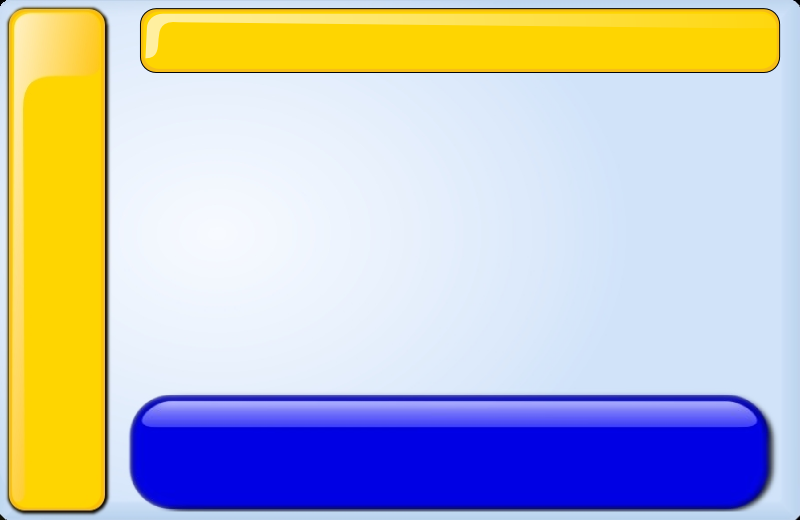
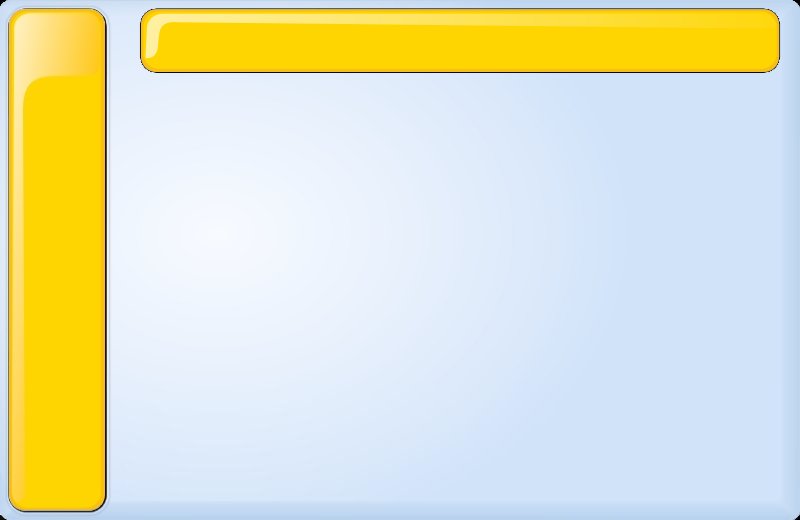
improved menu. now the description is no more hard drawed in the background but is displayed dynamically. It allows a better integration with the new control bar.
svn path=/branches/gcomprixogoo/; revision=3496

diff --git a/src/boards/menu2.c b/src/boards/menu2.c
@@ -30,7 +30,7 @@
 #define MENU_PER_LINE 5
 
 typedef struct {
-  /* Information items (_s are shadow) */
+  GooCanvasItem *bg; /* Background */
   GooCanvasItem *boardname_item;
   GooCanvasItem *description_item;
   GooCanvasItem *author_item;
@@ -111,7 +111,7 @@ static gdouble get_ratio(GdkPixbuf *pixmap, gdouble size);
 #define D_INT_Y 5
 
 #define I_X 140
-#define I_Y 410
+#define I_Y 390
 #define I_W 600
 #define I_H 125
 
@@ -215,6 +215,12 @@ static void menu_start (GcomprisBoard *agcomprisBoard)
 
       gcomprisBoard=agcomprisBoard;
 
+      /* set initial values for this level */
+      gcomprisBoard->level = 1;
+      gcomprisBoard->maxlevel=1;
+      gc_bar_set(GC_BAR_CONFIG|GC_BAR_ABOUT);
+      gc_bar_set_level(gcomprisBoard);
+
       menuitems = g_new(MenuItems, 1);
 
       img = gc_skin_image_get("gcompris-menu2bg.png");
@@ -237,14 +243,6 @@ static void menu_start (GcomprisBoard *agcomprisBoard)
 	display_section(menu_position);
       else
 	display_welcome(menuitems);
-
-      /* set initial values for this level */
-      gcomprisBoard->level = 1;
-      gcomprisBoard->maxlevel=1;
-      gc_bar_set(GC_BAR_CONFIG|GC_BAR_ABOUT);
-
-      /* FIXME : Workaround for bugged canvas */
-      //goo_canvas_update_now(gcomprisBoard->canvas);
 
       menu_pause(FALSE);
 
@@ -555,6 +553,10 @@ on_enter_notify (GooCanvasItem  *item,
 
   board = g_object_get_data (G_OBJECT (item), "board");
 
+  if(G_IS_OBJECT(menuitems->bg))
+    g_object_set(menuitems->bg,
+		 "visibility", GOO_CANVAS_ITEM_VISIBLE, NULL);
+
   if(board->title && G_IS_OBJECT(menuitems->boardname_item))
     g_object_set (menuitems->boardname_item,
 		  "text", board->title,
@@ -580,6 +582,9 @@ on_leave_notify (GooCanvasItem  *item,
 		 GdkEventCrossing *event,
 		 MenuItems *menuitems)
 {
+  g_object_set(menuitems->bg,
+	       "visibility", GOO_CANVAS_ITEM_INVISIBLE, NULL);
+
   g_object_set (menuitems->boardname_item,
 		"text", "", NULL);
 
@@ -642,11 +647,27 @@ create_info_area(GooCanvasItem *parent, MenuItems *menuitems)
 
   g_assert(parent);
 
-  menuitems->boardname_item = \
+  menuitems->bg =
+    goo_canvas_rect_new (parent,
+			 info_x,
+			 info_y,
+			 info_w,
+			 info_h,
+			 "stroke_color_rgba", 0xFFFFFFFFL,
+			 "fill_color_rgba", 0x0000FF90L,
+			 "line-width", (double) 2,
+			 "radius-x", (double) 10,
+			 "radius-y", (double) 10,
+			 NULL);
+
+  g_object_set(menuitems->bg,
+	       "visibility", GOO_CANVAS_ITEM_INVISIBLE, NULL);
+
+  menuitems->boardname_item =			\
     goo_canvas_text_new (parent,
 			 "",
 			 x,
-			 y,
+			 y + 20,
 			 -1,
 			 GTK_ANCHOR_CENTER,
 			 "font", gc_skin_font_board_big,
@@ -658,8 +679,8 @@ create_info_area(GooCanvasItem *parent, MenuItems *menuitems)
     goo_canvas_text_new (parent,
 			 "",
 			 x,
-			 y + 34,
-			 info_w,
+			 y + 54,
+			 info_w - 10,
 			 GTK_ANCHOR_CENTER,
 			 "font", gc_skin_font_board_medium,
 			 "fill-color-rgba", gc_skin_get_color("menu/text"),
@@ -670,14 +691,13 @@ create_info_area(GooCanvasItem *parent, MenuItems *menuitems)
     goo_canvas_text_new (parent,
 			 "",
 			 x,
-			 y + 90,
+			 y + 110,
 			 -1,
 			 GTK_ANCHOR_CENTER,
 			 "font", gc_skin_font_board_tiny,
 			 "fill-color-rgba", gc_skin_get_color("menu/text"),
 			 "alignment", PANGO_ALIGN_CENTER,
 			 NULL);
-
 }
 
 static gdouble
@@ -799,29 +819,15 @@ create_top(GooCanvasItem *parent, gchar *path)
 
 }
 
-static void
-display_welcome (MenuItems *menuitems)
+static gboolean
+display_welcome_event (GooCanvasItem  *item,
+		       GooCanvasItem  *target,
+		       GdkEventCrossing *event,
+		       MenuItems *menuitems)
 {
-  GdkPixbuf *pixmap;
-
-  if (actualSectionItem)
-    g_error("actualSectionItem exists in display_section !");
-
-
-  actualSectionItem = goo_canvas_group_new(boardRootItem,
-					   NULL);
-
-  pixmap = gc_skin_pixmap_load("gcompris-about.png");
-
-  goo_canvas_image_new (actualSectionItem,
-			pixmap,
-			display_x + display_w/2.0 -
-			gdk_pixbuf_get_width(pixmap)/2,
-			display_y + display_h/2.0 -
-			gdk_pixbuf_get_height(pixmap)/2,
-			NULL);
-
-  gdk_pixbuf_unref(pixmap);
+  if(G_IS_OBJECT(menuitems->bg))
+    g_object_set(menuitems->bg,
+		 "visibility", GOO_CANVAS_ITEM_VISIBLE, NULL);
 
   if(G_IS_OBJECT(menuitems->boardname_item))
     g_object_set(menuitems->boardname_item,
@@ -837,6 +843,39 @@ display_welcome (MenuItems *menuitems)
   if(G_IS_OBJECT(menuitems->author_item))
     g_object_set(menuitems->author_item,
 		 "text", "", NULL);
+
+  return FALSE;
+}
+
+static void
+display_welcome (MenuItems *menuitems)
+{
+  GdkPixbuf *pixmap;
+  GooCanvasItem *item;
+
+  if (actualSectionItem)
+    g_error("actualSectionItem exists in display_section !");
+
+
+  actualSectionItem = goo_canvas_group_new(boardRootItem,
+					   NULL);
+
+  pixmap = gc_skin_pixmap_load("gcompris-about.png");
+
+  item = goo_canvas_image_new (actualSectionItem,
+			       pixmap,
+			       display_x + display_w/2.0 -
+			       gdk_pixbuf_get_width(pixmap)/2,
+			       display_y + display_h/2.0 -
+			       gdk_pixbuf_get_height(pixmap)/2,
+			       NULL);
+
+  gdk_pixbuf_unref(pixmap);
+
+  g_signal_connect (item, "enter_notify_event",
+		    (GtkSignalFunc) display_welcome_event, menuitems);
+  g_signal_connect (item, "leave_notify_event",
+		    (GtkSignalFunc) on_leave_notify, menuitems);
 
   menu_displayed = TRUE;
 }

diff --git a/src/submarine-activity/submarine.c b/src/submarine-activity/submarine.c
@@ -127,7 +127,7 @@ static void game_won();
 /* ================================================================ */
 static GooCanvasItem *boardRootItem = NULL;
 
-static GooCanvasItem *sub_schema_image_item, *submarine_item,
+static GooCanvasItem *submarine_item,
   *ballast_av_purge_item, *ballast_ar_purge_item, *regleur_purge_item;
 static GooCanvasItem *ballast_av_chasse_item, *ballast_ar_chasse_item, *regleur_chasse_item;
 gboolean ballast_av_purge_open, ballast_ar_purge_open, regleur_purge_open;
@@ -314,8 +314,6 @@ static gboolean is_our_board (GcomprisBoard *gcomprisBoard) {
  * =====================================================================*/
 static void submarine_next_level()
 {
-  gc_bar_set_level(gcomprisBoard);
-
   ballast_av_purge_open = ballast_ar_purge_open = regleur_purge_open = FALSE;
   ballast_av_chasse_open = ballast_ar_chasse_open = regleur_chasse_open = FALSE;
   air_charging = battery_charging = FALSE;
@@ -337,6 +335,8 @@ static void submarine_next_level()
 
   /* Try the next level */
   submarine_create_item(goo_canvas_get_root_item(gcomprisBoard->canvas));
+
+  gc_bar_set_level(gcomprisBoard);
 
 }
 /* =====================================================================
@@ -384,6 +384,7 @@ static GooCanvasItem *submarine_create_item(GooCanvasItem *parent) {
 
   gdk_pixbuf_unref(pixmap);
 
+
   pixmap = gc_pixmap_load("submarine/sub_schema.png");
 
   w = gdk_pixbuf_get_width(pixmap);
@@ -391,11 +392,11 @@ static GooCanvasItem *submarine_create_item(GooCanvasItem *parent) {
 
   schema_x = (BOARDWIDTH - w)/2 ;
   schema_y = BOARDHEIGHT - h;
-  sub_schema_image_item = goo_canvas_image_new (boardRootItem,
-						pixmap,
-						schema_x,
-						schema_y,
-						NULL);
+  goo_canvas_image_new (boardRootItem,
+			pixmap,
+			schema_x,
+			schema_y,
+			NULL);
 
   gdk_pixbuf_unref(pixmap);
 
